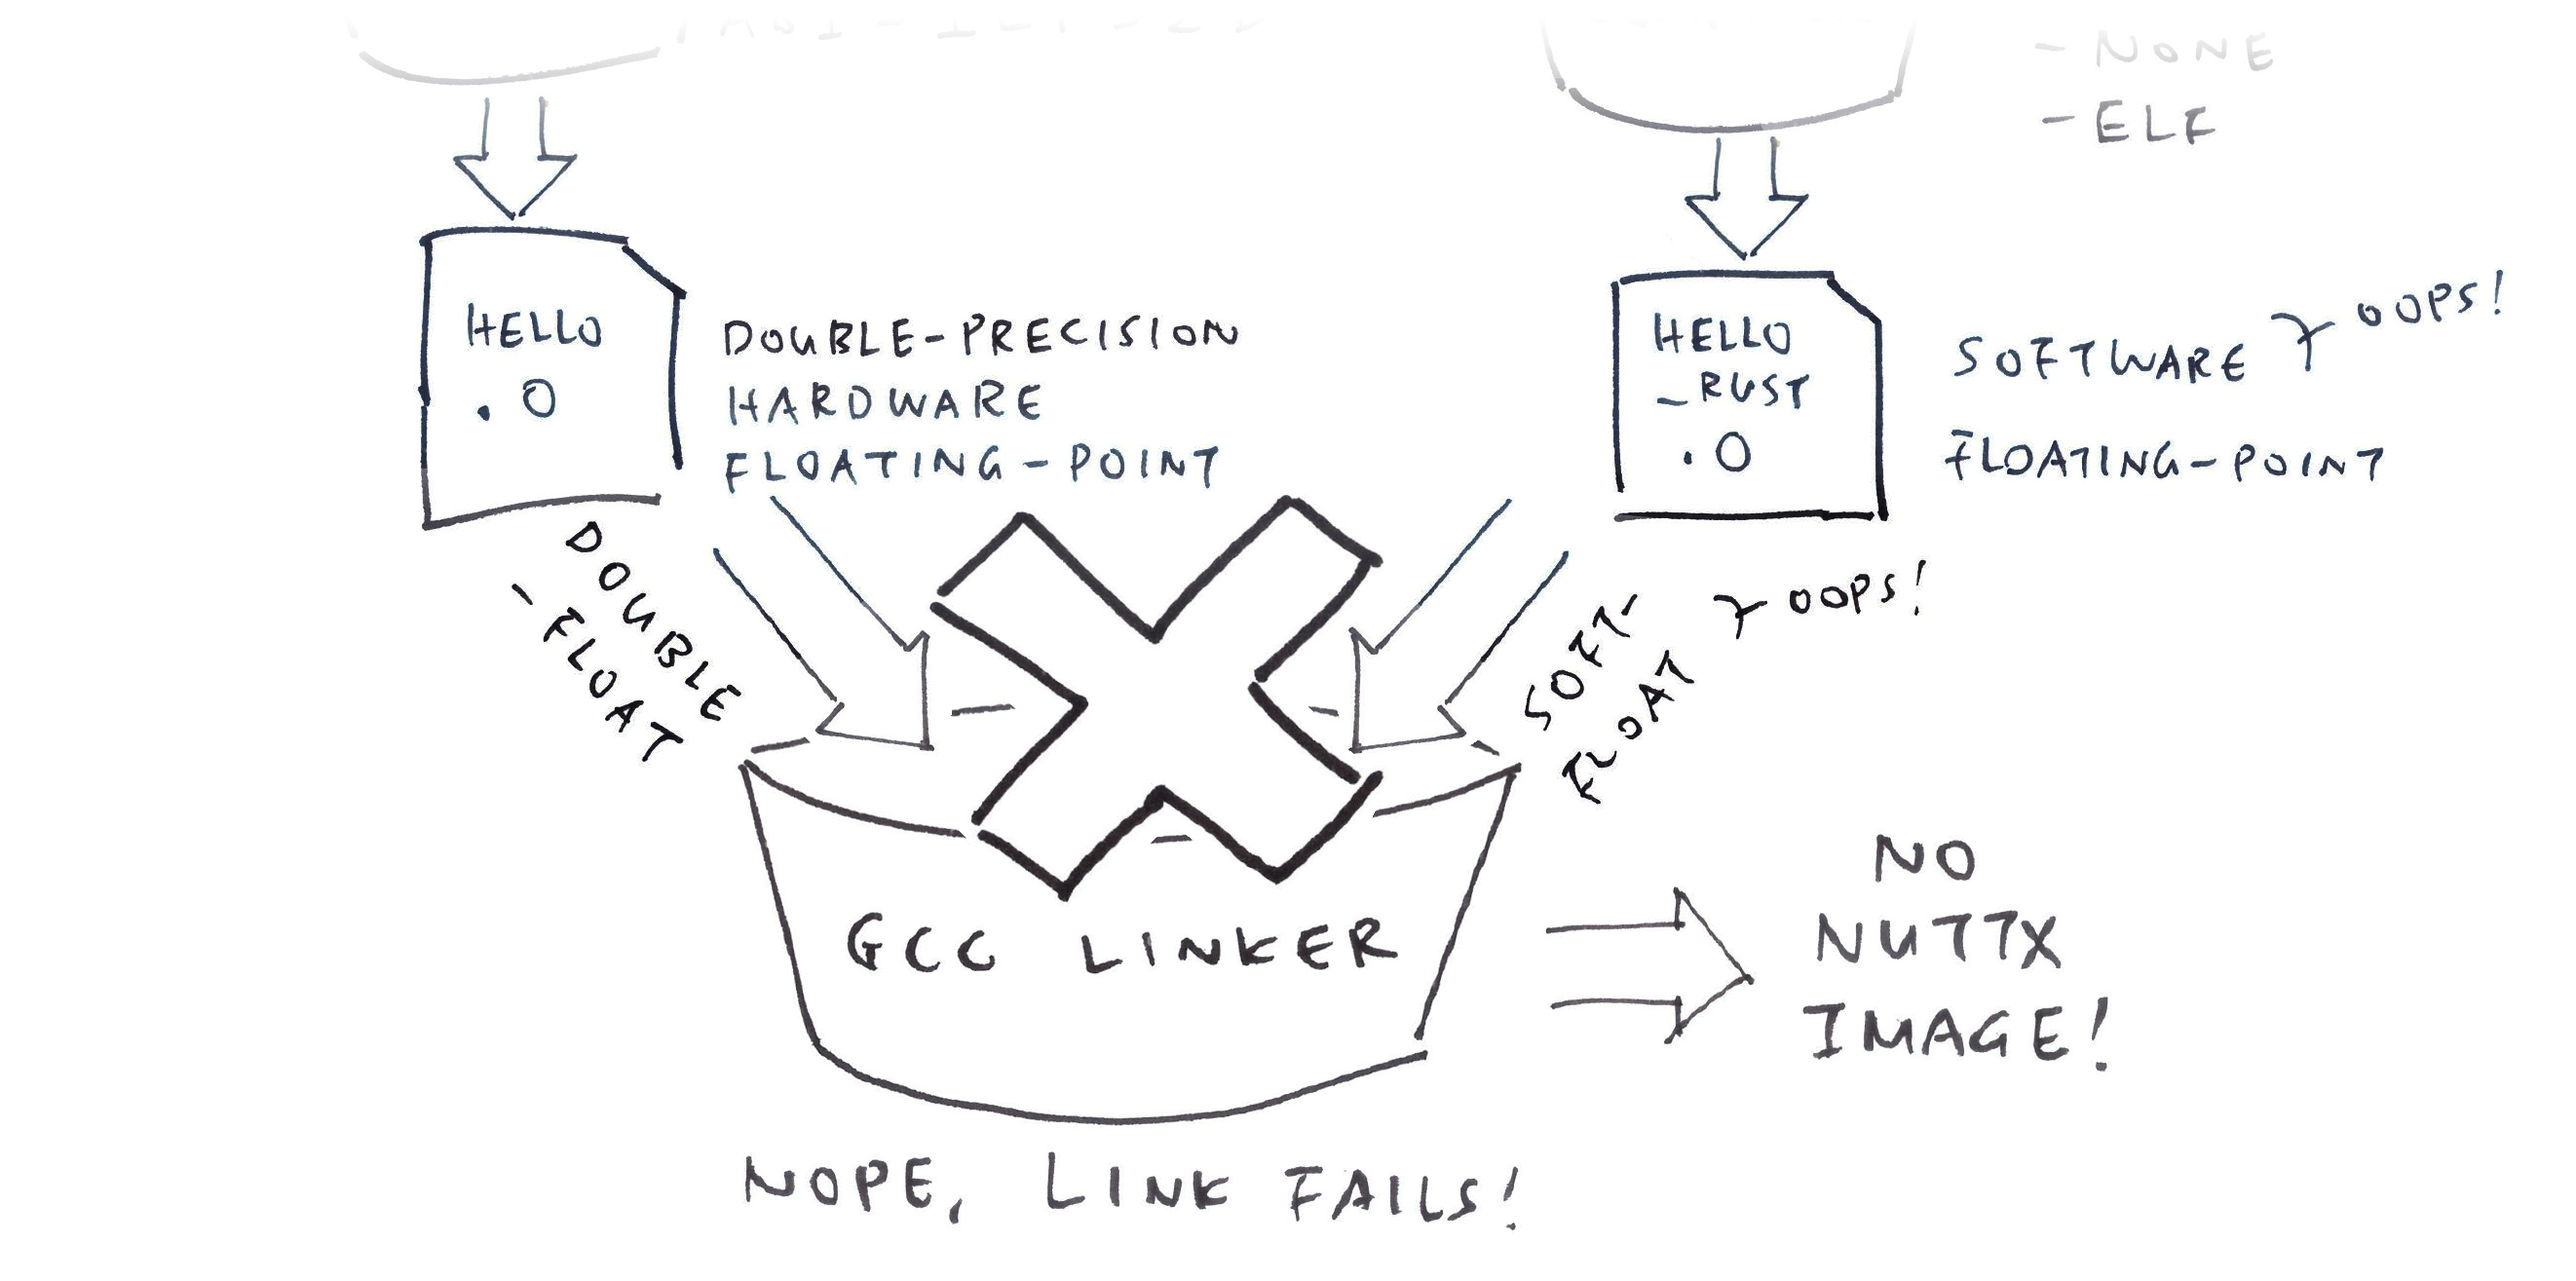
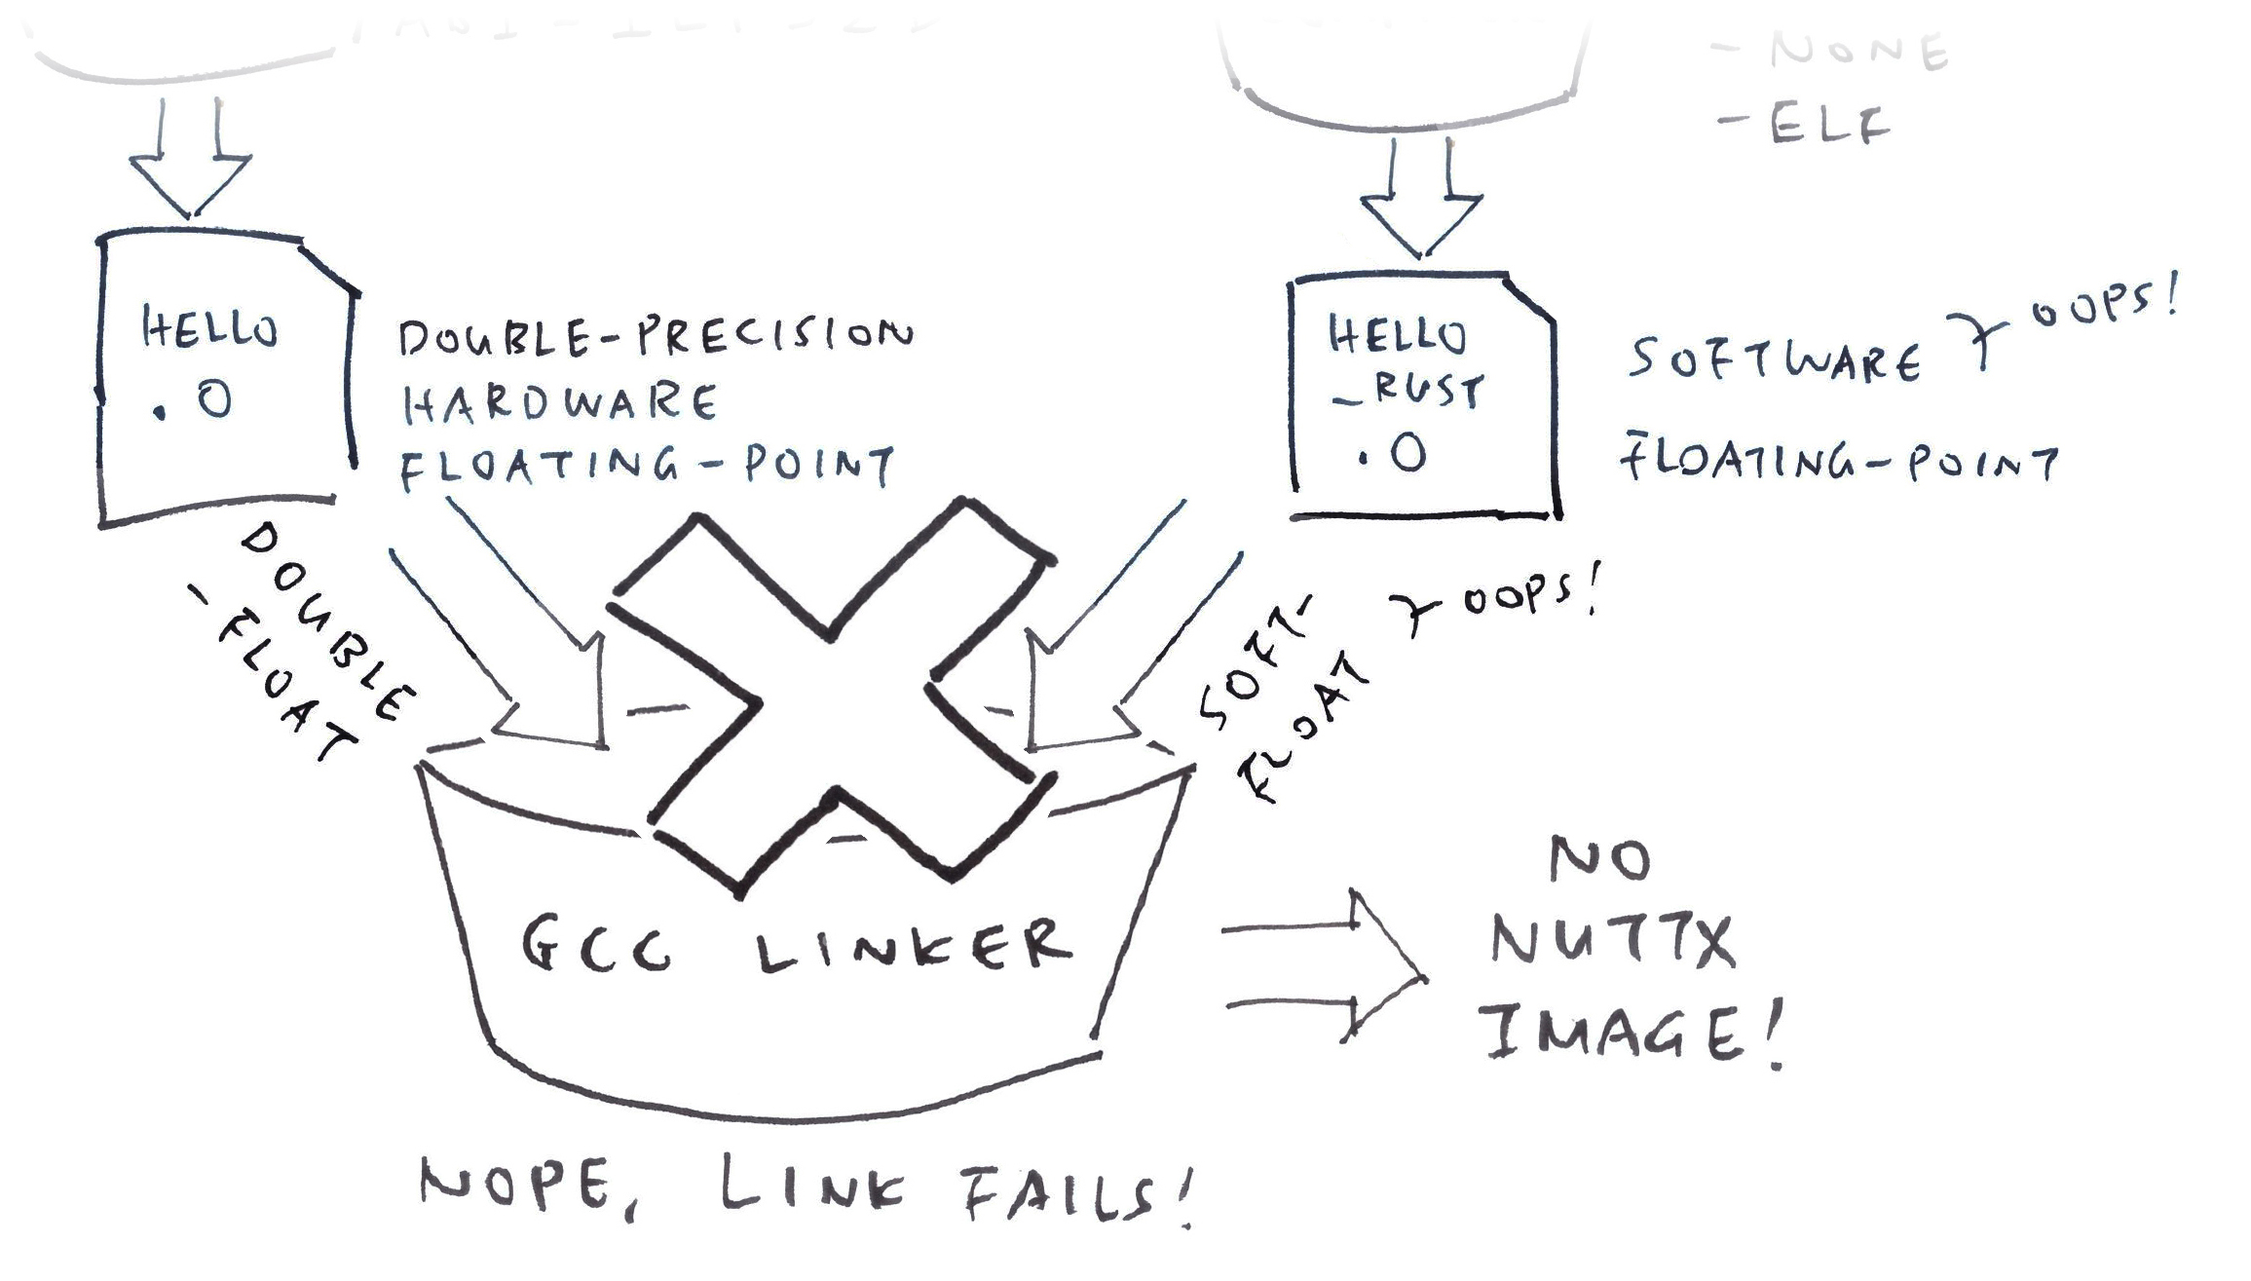
Update article

diff --git a/src/rust4.md b/src/rust4.md
@@ -37,7 +37,7 @@ Let's solve the problem! We dive inside the internals of __C-to-Rust Interop__..
 
 # Software vs Hardware Floating-Point
 
-_What's causing our NuttX Build to fail?_
+_What's causing our NuttX Build to fail? (Pic above)_
 
 ```bash
 $ make
@@ -101,9 +101,11 @@ rustc \
   -o hello_rust_main.rs...apps.examples.hello_rust.o
 ```
 
+![Double-Float vs Soft-Float: GCC Linker won't link the binaries](https://lupyuen.github.io/images/rust4-flow2b.jpg)
+
 _Is there a problem?_
 
-Watch closely as we compare __GCC Compiler__ with __Rust Compiler__...
+Watch closely as we compare __GCC Compiler__ with __Rust Compiler__ (pic above)...
 
 <span style="font-size:90%">
 
@@ -784,9 +786,11 @@ _Got a question, comment or suggestion? Create an Issue or submit a Pull Request
 
 [__lupyuen.github.io/src/rust4.md__](https://github.com/lupyuen/lupyuen.github.io/blob/master/src/rust4.md)
 
+> ![Building our Rust App](https://lupyuen.github.io/images/rust4-flow1b.jpg)
+
 # Appendix: Rust Compiler Options
 
-_How did we figure out the rustc options?_
+_How did we get the Rust Compiler Options?_
 
 Earlier we saw the [__Rust Compiler Options__](TODO) for building our Rust App (with Rust Core Library for __`riscv32gc`__)...
 
